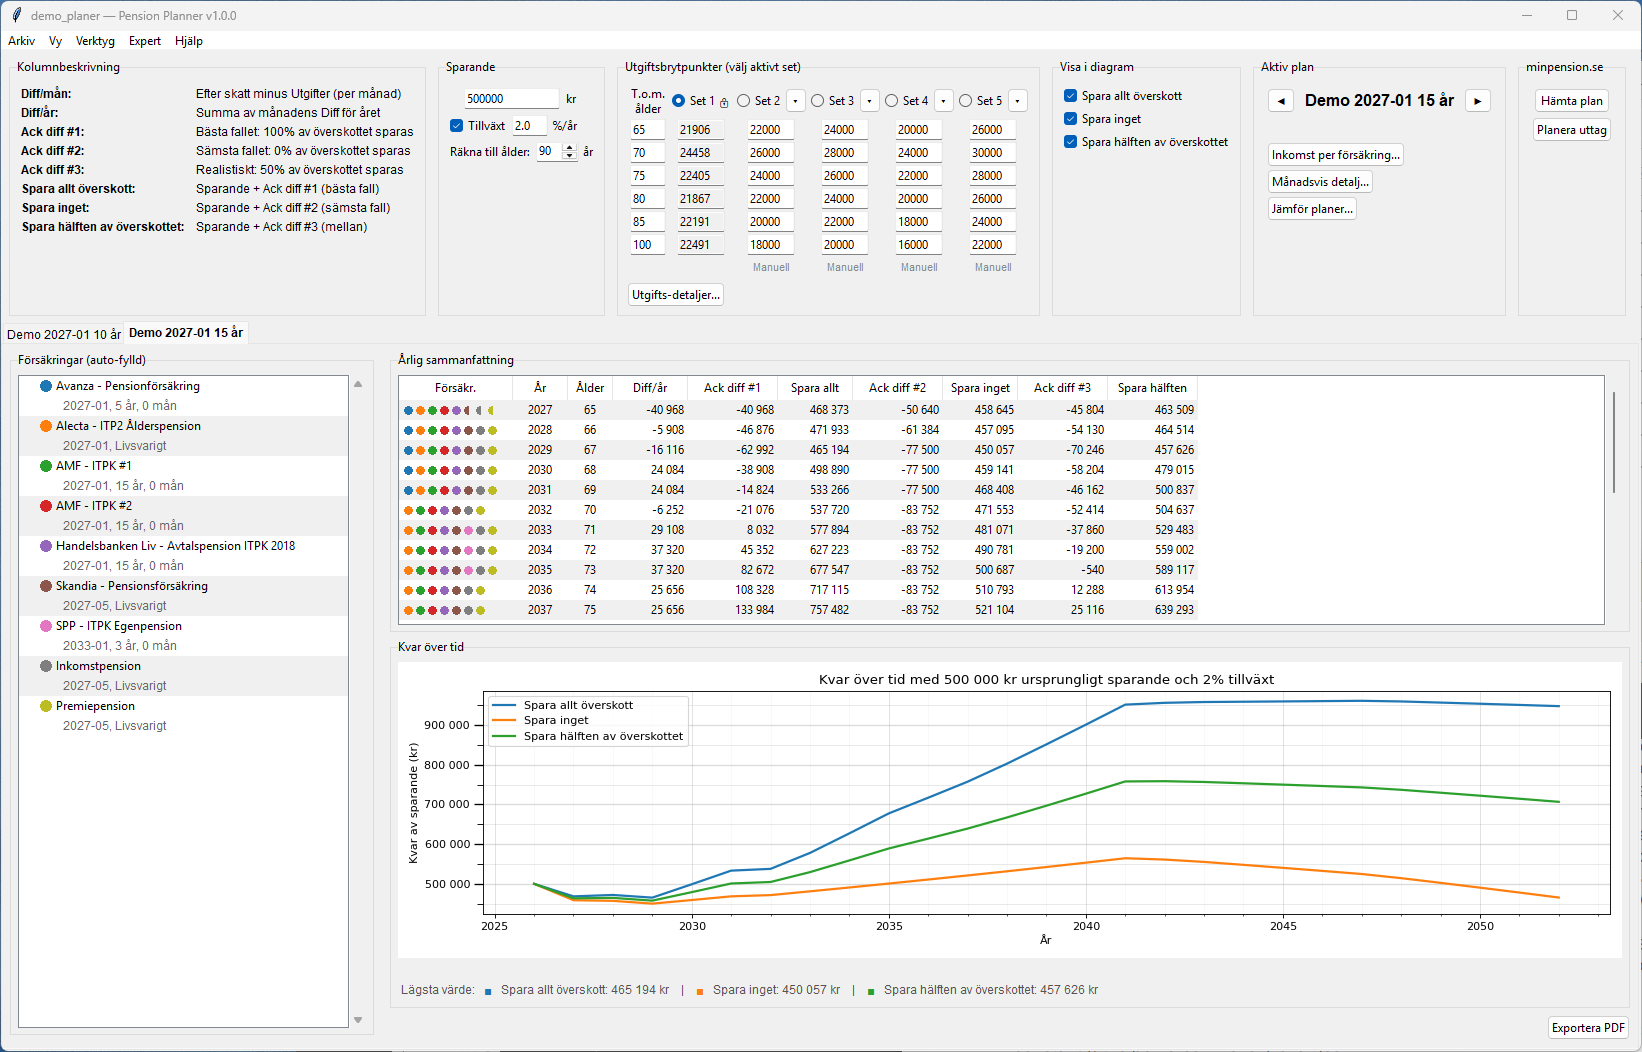
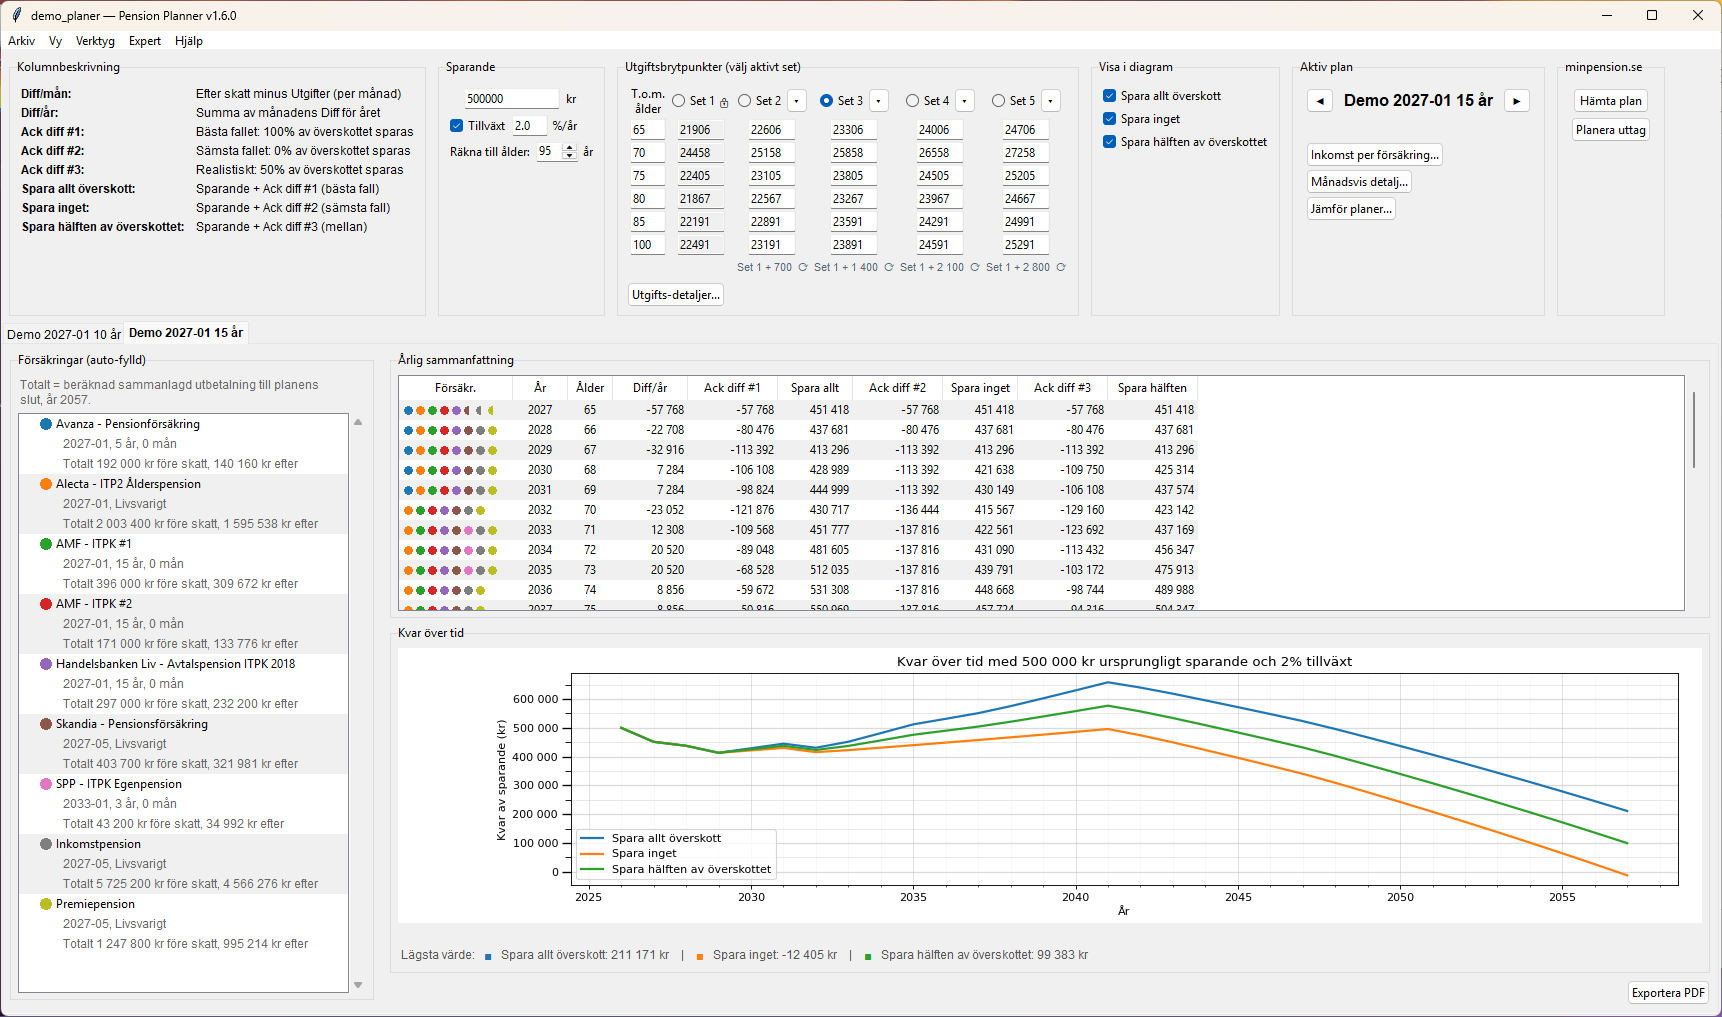
Visa totalt beräknad utbetalning per försäkring i försäkringslistan
Försäkringslistan i huvudfönstret visar nu totalt beräknad utbetalning före
och efter skatt fram till planens slut, räknat på samma sätt som i vyn
Inkomst per försäkring. En text ovanför listan anger planens slutår.
Hjälpen förklarar hur beloppen räknas och varför de inte stämmer med
kapitalet på minpension.se. Länkar till underrubriker fungerar nu i
hjälpläsaren. Ny skärmbild av huvudfönstret.

diff --git a/pension_planner.py b/pension_planner.py
@@ -1084,6 +1084,79 @@ INSURANCE_COLORS = [
 ]
 
 
+def insurance_payout_totals(parsed, end_age):
+    """Totalt beräknad utbetalning per försäkring fram till planens slut.
+
+    Returnerar en lista parallell med parsed.insurances där varje element är
+    (före_skatt, efter_skatt) i kr, eller None när försäkringen saknar
+    belopp per brytpunkt. efter_skatt är None om planen saknar skatteuppgift.
+
+    Räknar på samma sätt som vyn "Inkomst per försäkring" (hovra över sista
+    kolumnen): månadsbeloppet vid varje brytpunkt gäller till nästa
+    brytpunkt, och sista perioden löper till december det år personen
+    fyller end_age. Efter skatt är ett estimat: före skatt × planens
+    skattefaktor per brytpunkt.
+    """
+    insurances = parsed.insurances
+    result = [None] * len(insurances)
+    all_bps = parsed.breakpoints
+    if not all_bps or not any(ins.amounts_before_tax for ins in insurances):
+        return result
+
+    # Hoppa över brytpunkter före första pensionsutbetalningen (lön-perioden)
+    start_idx = 0
+    if parsed.earliest_start:
+        start_idx = next(
+            (i for i, bp in enumerate(all_bps)
+             if bp.date >= parsed.earliest_start), 0,
+        )
+    bps = all_bps[start_idx:]
+    n = len(bps)
+
+    # Skattefaktor per brytpunkt; saknas efter-skatt används nästa kända
+    multipliers = [None] * n
+    for i, bp in enumerate(bps):
+        if bp.before_tax and bp.after_tax is not None and bp.before_tax > 0:
+            multipliers[i] = bp.after_tax / bp.before_tax
+    last_known = None
+    for i in reversed(range(n)):
+        if multipliers[i] is not None:
+            last_known = multipliers[i]
+        elif last_known is not None:
+            multipliers[i] = last_known
+    has_tax = any(m is not None for m in multipliers)
+
+    if parsed.birth_year:
+        plan_end = (parsed.birth_year + end_age, 12)
+    else:
+        plan_end = (bps[-1].date[0] + 30, bps[-1].date[1])
+
+    def _months(d1, d2):
+        return (d2[0] - d1[0]) * 12 + (d2[1] - d1[1])
+
+    period_months = [
+        _months(bps[k].date, bps[k + 1].date) if k < n - 1
+        else max(0, _months(bps[k].date, plan_end))
+        for k in range(n)
+    ]
+
+    for idx, ins in enumerate(insurances):
+        if not ins.amounts_before_tax:
+            continue
+        amounts = list(ins.amounts_before_tax[start_idx:])
+        before = 0
+        after = 0
+        for k in range(n):
+            amt = amounts[k] if k < len(amounts) else None
+            if amt is None:
+                continue
+            before += amt * period_months[k]
+            if multipliers[k] is not None:
+                after += round(amt * multipliers[k]) * period_months[k]
+        result[idx] = (round(before), round(after) if has_tax else None)
+    return result
+
+
 def _make_dot_image(color, size=14):
     """Skapa en liten färgad cirkel som tkinter-bild."""
     from PIL import Image, ImageDraw, ImageTk
@@ -1530,7 +1603,16 @@ class PlanTab:
         ins_frame = ttk.LabelFrame(left, text="Försäkringar (auto-fylld)", padding=6)
         ins_frame.grid(row=0, column=0, sticky='nsew', pady=(0, 4))
         ins_frame.columnconfigure(0, weight=1)
-        ins_frame.rowconfigure(0, weight=1)
+        ins_frame.rowconfigure(1, weight=1)
+        # Förklaring till totalraderna — visas bara när planen har sådana
+        self.ins_totals_label = ttk.Label(
+            ins_frame, text='', foreground='#666666',
+            font=('TkDefaultFont', 9), wraplength=320, justify='left',
+        )
+        self.ins_totals_label.grid(
+            row=0, column=0, columnspan=2, sticky='w', pady=(0, 4),
+        )
+        self.ins_totals_label.grid_remove()
         self.ins_tree = ttk.Treeview(ins_frame, show='tree', height=20)
         self.ins_tree.column('#0', width=320, stretch=True)
         self.ins_tree.tag_configure(
@@ -1542,8 +1624,8 @@ class PlanTab:
         self.ins_tree.tag_configure('pair_b', background='#f0f0f0')
         ins_ysb = ttk.Scrollbar(ins_frame, orient='vertical', command=self.ins_tree.yview)
         self.ins_tree.configure(yscrollcommand=ins_ysb.set)
-        self.ins_tree.grid(row=0, column=0, sticky='nsew')
-        ins_ysb.grid(row=0, column=1, sticky='ns')
+        self.ins_tree.grid(row=1, column=0, sticky='nsew')
+        ins_ysb.grid(row=1, column=1, sticky='ns')
         left.rowconfigure(0, weight=1)
 
         # ---- Höger panel: resultat + diagram + export ----
@@ -2096,12 +2178,63 @@ class PlanTab:
         self.parsed = None
         self.calc = None
         self.ins_tree.delete(*self.ins_tree.get_children())
+        self.ins_totals_label.grid_remove()
         self.result_tree.delete(*self.result_tree.get_children())
         self.app._refresh_monthly_window(self)
         self.ax.clear()
         self.canvas.draw()
         self._update_chart_min_label()
         self._update_tab_text('Ny plan')
+
+    def _fill_insurance_tree(self):
+        """Fyll försäkringslistan: namnrad, detaljrad med start och längd
+        samt — när planen har belopp per försäkring — en rad med totalt
+        beräknad utbetalning fram till planens slut."""
+        self.ins_tree.delete(*self.ins_tree.get_children())
+        self._dot_images = []
+        insurances = self.parsed.insurances if self.parsed else []
+        end_age = self.app.get_end_age()
+        self._ins_tree_end_age = end_age
+        totals = (
+            insurance_payout_totals(self.parsed, end_age) if self.parsed else []
+        )
+        if any(t is not None for t in totals):
+            if self.parsed.birth_year:
+                end_year = self.parsed.birth_year + end_age
+            else:
+                end_year = self.parsed.breakpoints[-1].date[0] + 30
+            self.ins_totals_label.config(text=(
+                f'Totalt = beräknad sammanlagd utbetalning till planens '
+                f'slut, år {end_year}.'
+            ))
+            self.ins_totals_label.grid()
+        else:
+            self.ins_totals_label.grid_remove()
+        for i, ins in enumerate(insurances):
+            bg_tag = 'pair_a' if i % 2 == 0 else 'pair_b'
+            color = INSURANCE_COLORS[i % len(INSURANCE_COLORS)]
+            dot = _make_dot_image(color)
+            self._dot_images.append(dot)
+            start = f"{ins.start[0]}-{ins.start[1]:02d}" if ins.start else '?'
+            dur = (
+                f"{ins.duration[0]} år, {ins.duration[1]} mån"
+                if ins.duration else 'Livsvarigt'
+            )
+            self.ins_tree.insert(
+                '', 'end', text=' ' + ins.name, image=dot, tags=(bg_tag,),
+            )
+            self.ins_tree.insert(
+                '', 'end', text=f'        {start}, {dur}',
+                tags=(bg_tag, 'details'),
+            )
+            if totals[i] is not None:
+                before, after = totals[i]
+                text = f'        Totalt {fmt_kr(before)} kr före skatt'
+                if after is not None:
+                    text += f', {fmt_kr(after)} kr efter'
+                self.ins_tree.insert(
+                    '', 'end', text=text, tags=(bg_tag, 'details'),
+                )
 
     def on_parse(self):
         text = self.paste_text.get('1.0', 'end')
@@ -2132,27 +2265,7 @@ class PlanTab:
 
         self._update_tab_text(self.parsed.plan_name)
 
-        self.ins_tree.delete(*self.ins_tree.get_children())
-        self._dot_images = []
-        for i, ins in enumerate(self.parsed.insurances):
-            bg_tag = 'pair_a' if i % 2 == 0 else 'pair_b'
-            color = INSURANCE_COLORS[i % len(INSURANCE_COLORS)]
-            dot = _make_dot_image(color)
-            self._dot_images.append(dot)
-            start = f"{ins.start[0]}-{ins.start[1]:02d}" if ins.start else '?'
-            dur = (
-                f"{ins.duration[0]} år, {ins.duration[1]} mån"
-                if ins.duration else 'Livsvarigt'
-            )
-            self.ins_tree.insert(
-                '', 'end', text=' ' + ins.name, image=dot,
-                tags=(bg_tag,),
-            )
-            self.ins_tree.insert(
-                '', 'end',
-                text=f'        {start}, {dur}',
-                tags=(bg_tag, 'details'),
-            )
+        self._fill_insurance_tree()
 
         self.recalculate()
 
@@ -2187,25 +2300,7 @@ class PlanTab:
             self.app._suppress_dirty = prev
 
         self._update_tab_text(parsed.plan_name)
-        self.ins_tree.delete(*self.ins_tree.get_children())
-        self._dot_images = []
-        for i, ins in enumerate(parsed.insurances):
-            bg_tag = 'pair_a' if i % 2 == 0 else 'pair_b'
-            color = INSURANCE_COLORS[i % len(INSURANCE_COLORS)]
-            dot = _make_dot_image(color)
-            self._dot_images.append(dot)
-            start = f"{ins.start[0]}-{ins.start[1]:02d}" if ins.start else '?'
-            dur = (
-                f"{ins.duration[0]} år, {ins.duration[1]} mån"
-                if ins.duration else 'Livsvarigt'
-            )
-            self.ins_tree.insert(
-                '', 'end', text=' ' + ins.name, image=dot, tags=(bg_tag,),
-            )
-            self.ins_tree.insert(
-                '', 'end', text=f'        {start}, {dur}',
-                tags=(bg_tag, 'details'),
-            )
+        self._fill_insurance_tree()
         self.recalculate()
         if (self.app._insurance_income_window is not None
                 and self.app._insurance_income_window.tab is self):
@@ -2254,6 +2349,10 @@ class PlanTab:
             growth_pct=self.app.get_growth_pct(),
             growth_mode=self.app.get_growth_mode(),
         )
+
+        # Totalbeloppen i försäkringslistan beror på "Räkna till ålder"
+        if getattr(self, '_ins_tree_end_age', None) != self.app.get_end_age():
+            self._fill_insurance_tree()
 
         # Uppdatera årlig tabell — färg baseras på årtal (samma år = samma färg över flikar)
         self.result_tree.delete(*self.result_tree.get_children())
@@ -9028,6 +9127,7 @@ class PensionPlannerApp:
             txt.config(state='disabled')
             return
         self._help_viewer_marks = {}
+        self._help_viewer_submarks = {}
         self._help_link_targets = {}
         self._help_viewer_images = []  # behåll PhotoImage-refs
         self._help_viewer_text = txt
@@ -9169,6 +9269,7 @@ class PensionPlannerApp:
                 self._help_viewer_back_scroll = 0.0
         try:
             self._help_viewer_marks = {}
+            self._help_viewer_submarks = {}
             self._help_link_targets = {}
             self._help_viewer_images = []
             self._help_viewer_current_file = md_path
@@ -9206,6 +9307,13 @@ class PensionPlannerApp:
             # dubbla bindestreck där rubriken har tankstreck)
             slug_title = self._md_slug(title)
             for key, m in marks.items():
+                if self._md_slug(key) == slug_title:
+                    mark = m
+                    break
+        if mark is None:
+            # Underrubrik (H3) — nås bara via länkar i texten
+            slug_title = self._md_slug(title)
+            for key, m in getattr(self, '_help_viewer_submarks', {}).items():
                 if self._md_slug(key) == slug_title:
                     mark = m
                     break
@@ -9347,6 +9455,16 @@ class PensionPlannerApp:
                     txt.mark_gravity(mark_name, 'left')
                     txt.insert('end', title + '\n', 'h2')
                 elif line.startswith('### '):
+                    # Underrubriker får länkmål för [text](#slug) men visas
+                    # inte i menyn "Gå till avsnitt". Vid samma titel flera
+                    # gånger gäller den första.
+                    title = line[4:].strip()
+                    submarks = self._help_viewer_submarks
+                    if title not in submarks:
+                        mark_name = f'sub_{len(submarks)}'
+                        submarks[title] = mark_name
+                        txt.mark_set(mark_name, 'end-1c')
+                        txt.mark_gravity(mark_name, 'left')
                     txt.insert('end', line[4:] + '\n', 'h3')
                 elif line.strip() == '---':
                     txt.insert('end', '─' * 60 + '\n', 'hr')

diff --git a/README.md b/README.md
@@ -193,10 +193,52 @@ rätt sida i Chrome och försöka igen.
 - **Månadsvis detalj** (eget fönster, knappen **Månadsvis detalj...** under
   *Aktiv plan*): inkomst före/efter skatt, utgifter och diff månad för månad.
   Fönstret följer den aktiva plan-fliken.
-- **Försäkringar** (vänster): färgkodad lista med start och längd
+- **Försäkringar** (vänster): färgkodad lista med start och längd. För
+  planer med belopp per försäkring (hämtade via **Hämta plan**) visas
+  även **totalt beräknad utbetalning** före och efter skatt fram till
+  planens slut — se [Totalbelopp per försäkring](#totalbelopp-per-försäkring).
 - **Globala inställningar** (uppe): sparande, tillväxt, utgiftsbrytpunkter
 
 ![Månadsvis detalj — eget fönster med inkomst, utgifter och diff per månad för den aktiva planen](docs/screenshots/monthly_detail.png)
+
+### Totalbelopp per försäkring
+
+Raden **Totalt … kr före skatt, … kr efter** under varje försäkring är
+den sammanlagda utbetalning som planen ger från försäkringen, från
+uttagsstart till planens slut. Planens slut är december det år du fyller
+**Räkna till ålder**; årtalet står överst i försäkringslistan. Ändrar du
+**Räkna till ålder** räknas beloppen om.
+
+**Så räknas beloppen:**
+- **Före skatt:** planens månadsbelopp för försäkringen vid varje
+  brytpunkt gånger antalet månader till nästa brytpunkt, summerat över
+  alla perioder. Sista perioden löper till planens slut.
+- **Efter skatt:** varje periods belopp minskas med planens skattesats
+  för just den perioden (planens summa efter skatt delat med summa före
+  skatt vid brytpunkten). Det är ett estimat — minpension.se anger skatt
+  på hela inkomsten, inte per försäkring.
+- Det är samma summor som visas när du hovrar över sista kolumnen i
+  [Inkomst per försäkring](#inkomst-per-försäkring).
+
+**Beloppen är inte försäkringens kapital.** De stämmer därför inte med
+"Kapital idag" på minpension.se, som bygger på vad du hittills har tjänat
+in. Totalbeloppen är prognostiserade utbetalningar och beror bland annat
+på:
+- **Livsvarigt eller tidsbegränsat uttag.** En livsvarig pension
+  betalas ut ända till planens slut, så totalen växer med **Räkna till
+  ålder**. En tidsbegränsad försäkring betalas ut under sin uttagslängd
+  och påverkas inte av en högre slutålder.
+- **När pengarna betalas ut.** Skatten är lägre från året efter att du
+  fyllt riktåldern, när det förhöjda grundavdraget gäller (se
+  [Skattesänkningen året efter riktåldern](#skattesänkningen-året-efter-riktåldern)).
+  Samma belopp före skatt ger därför mer efter skatt om det betalas ut
+  senare, och skatten beror också på hur stor den totala inkomsten är
+  under perioden.
+- **Planens prognos.** Månadsbeloppen är minpension.se:s prognoser för
+  just den här uttagsplanen, inklusive antagen framtida värdeutveckling.
+
+Planer utan belopp per försäkring (inklistrade utan utfällda kategorier)
+visar inga totalbelopp.
 
 ### Kvar-strategier
 - **Kvar #1 "Spara allt"**: hela överskottet läggs till sparandet
